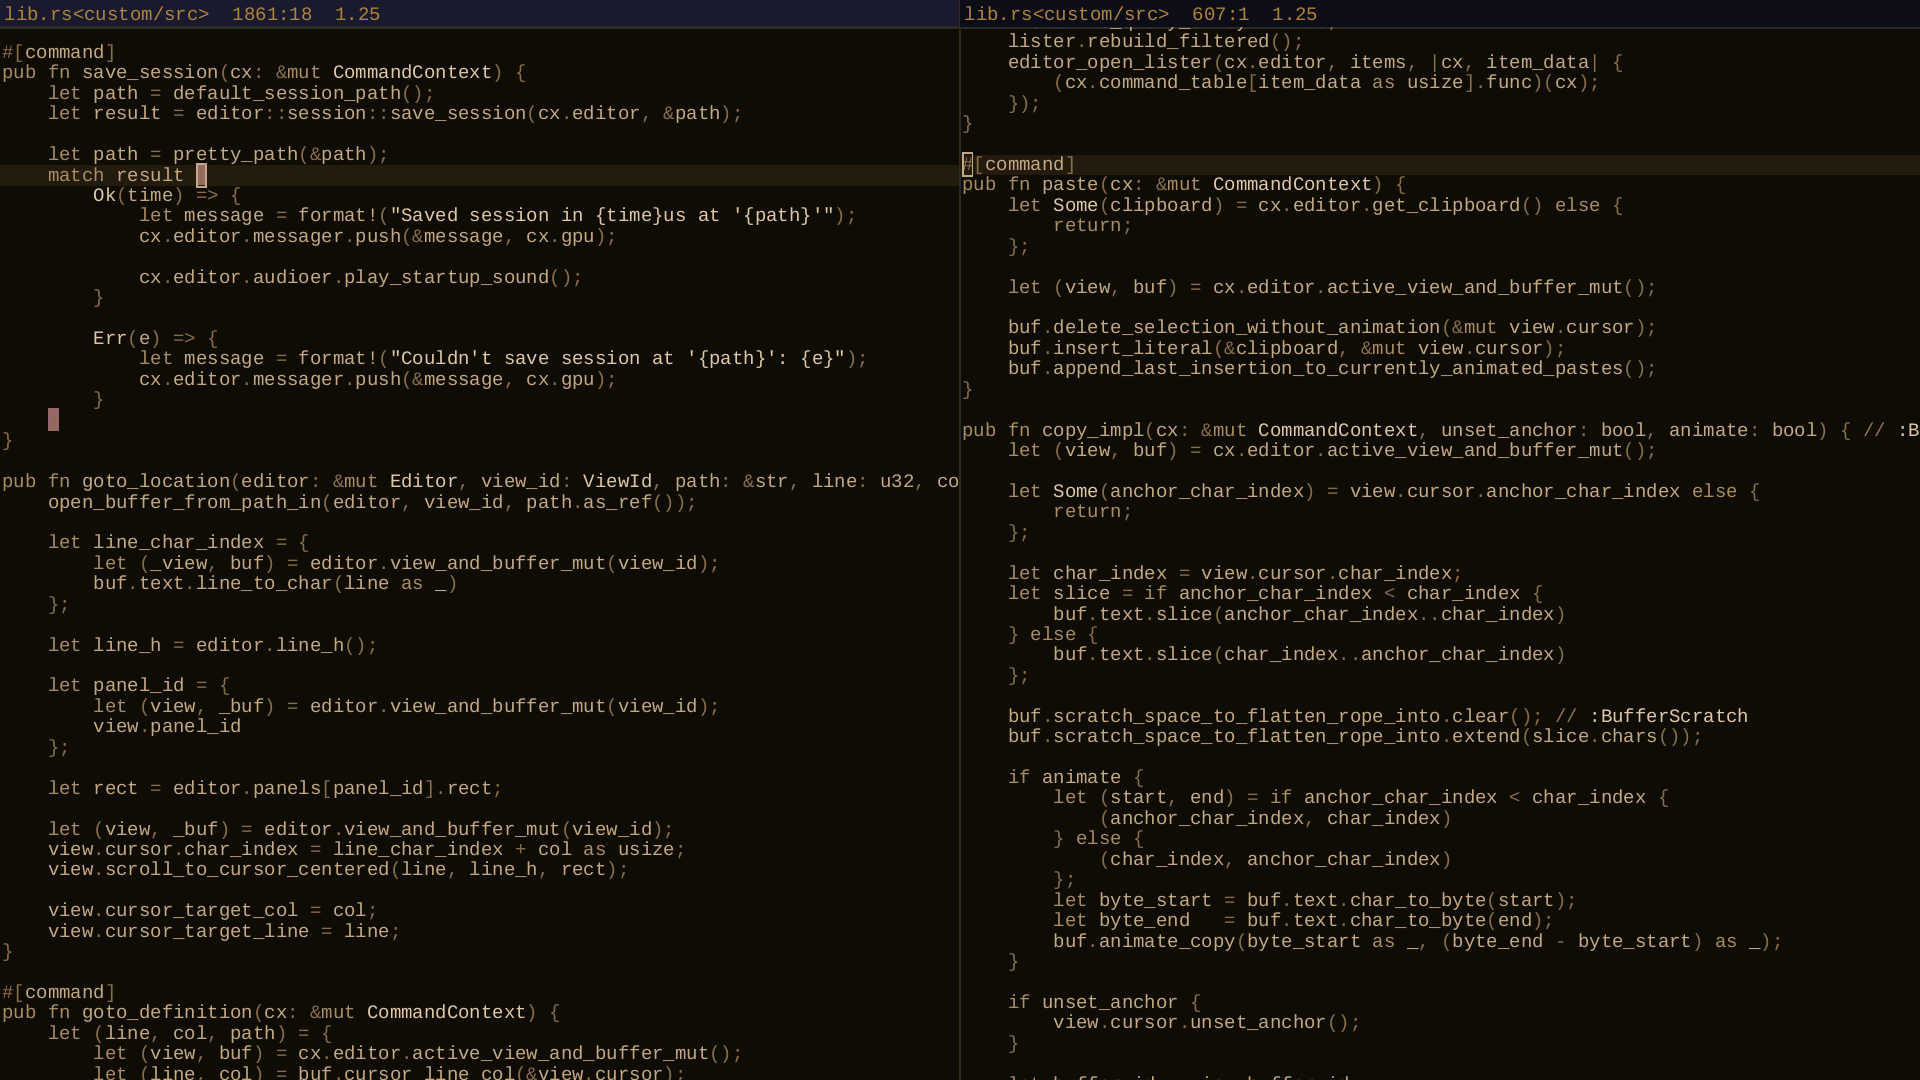
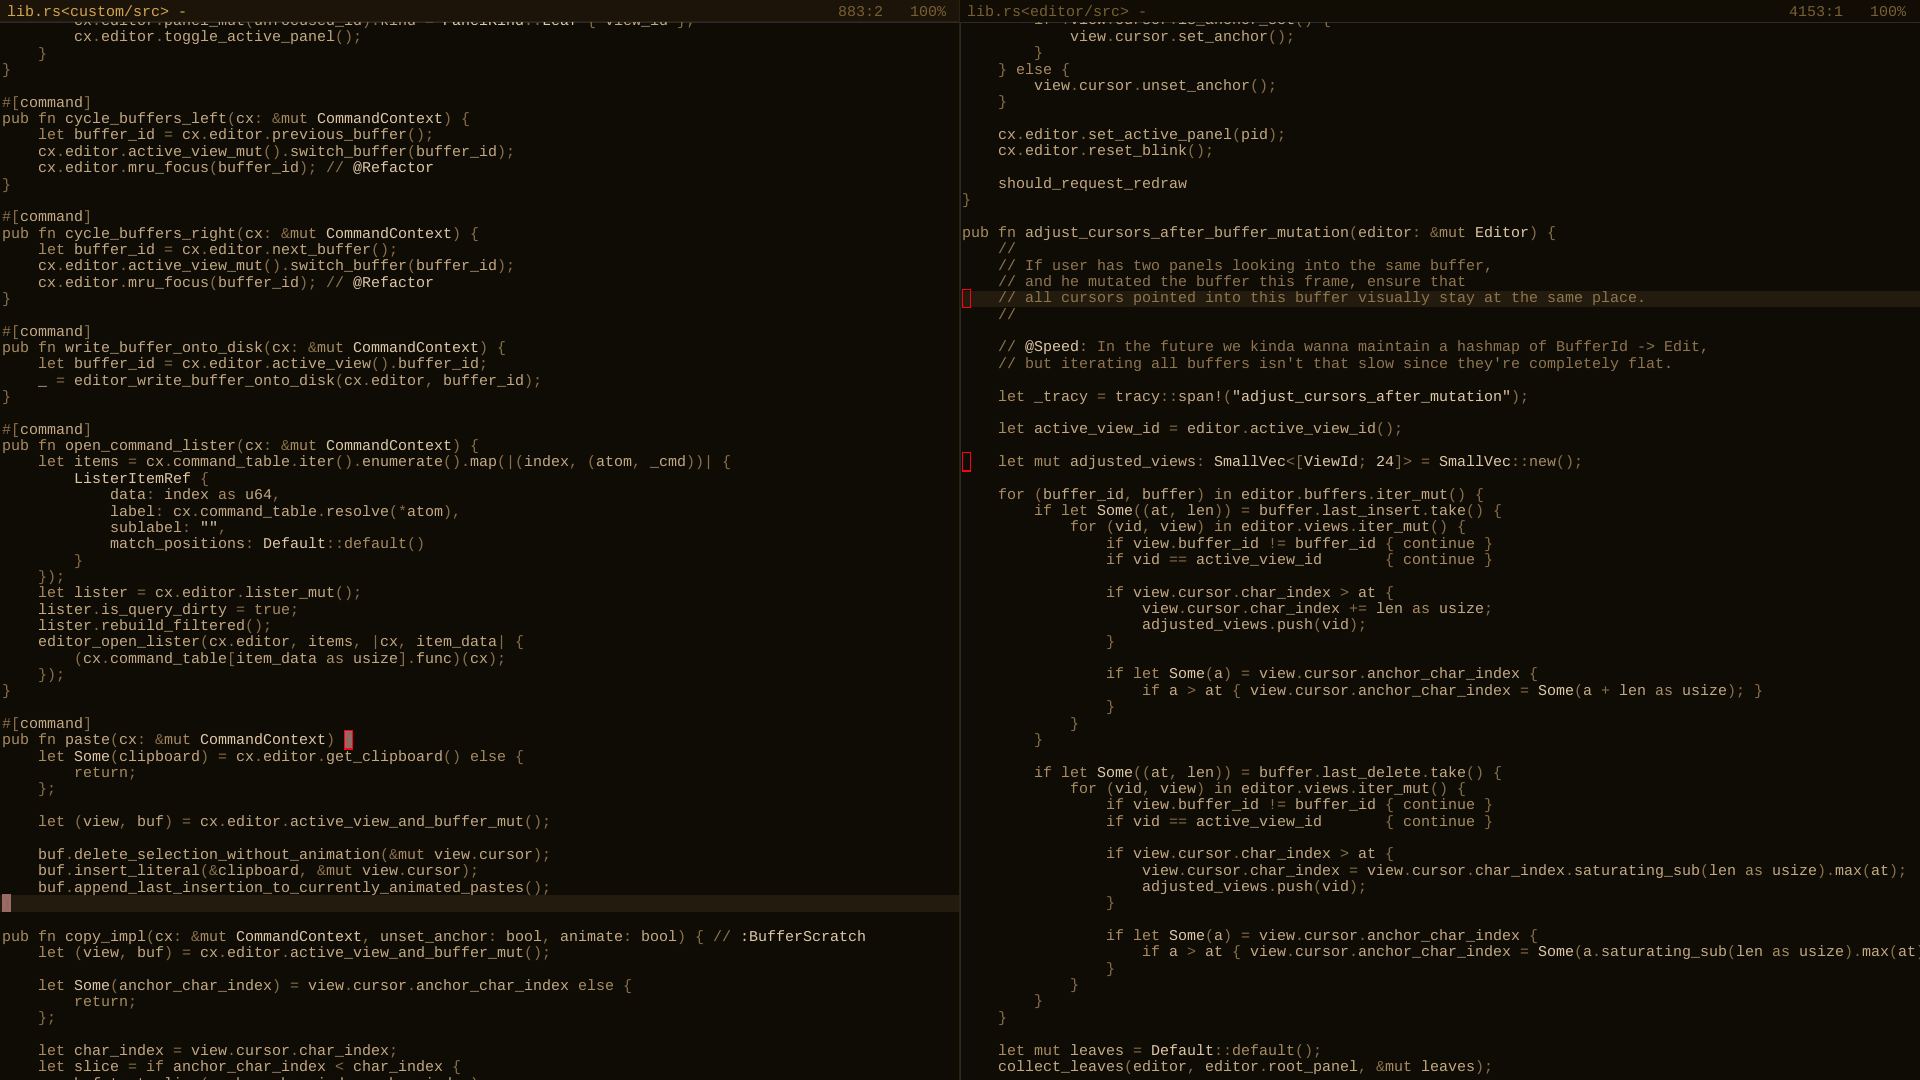
chore: update README and screenshot

diff --git a/README.md b/README.md
@@ -9,12 +9,12 @@
 ```console
 cargo b --profile=release-fast
 
-# If you don't need wayland:
-cargo b --profile=release-fast --no-default-features --features=x11
+# If you don't need audio
+cargo b --profile=release-fast --no-default-features --features=wayland,bundled
 
-# If you don't need x11:
-cargo b --profile=release-fast --no-default-features --features=wayland
+# If you don't need wayland
+cargo b --profile=release-fast --no-default-features --features=bundled
 
-# If you don't need neither x11 nor wayland:
+# If you don't need audio, wayland and bundled sdl2:
 cargo b --profile=release-fast --no-default-features
 ```